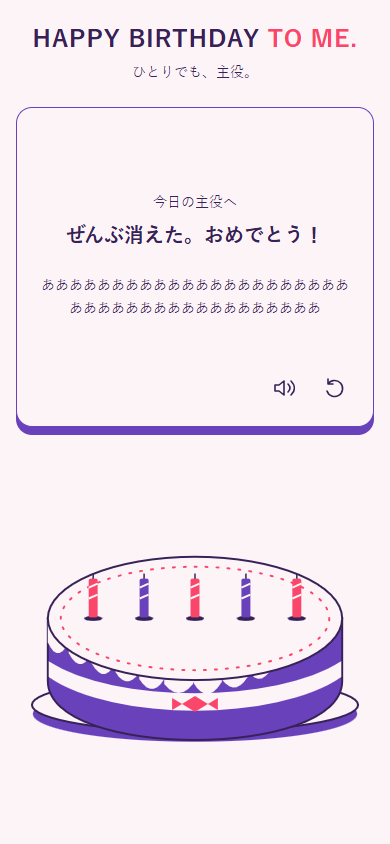
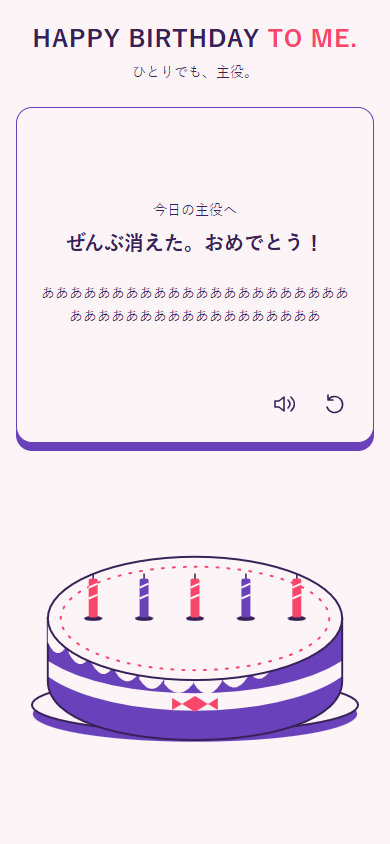
Give the start button card clearance

Changed region(s): [[0.0923, 0.2156, 0.8923, 0.4005], [0.0308, 0.4313, 0.9846, 0.5545]]

diff --git a/dist/style.css b/dist/style.css
@@ -32,7 +32,7 @@ button:focus-visible, input:focus-visible { outline: 3px solid var(--color-accen
 .brand h1 span { color: var(--color-emphasis); }
 .brand p { margin: var(--space-1) 0 0; font-size: var(--font-small); line-height: 1.5; }
 
-.message-card { position: relative; height: 320px; padding: var(--space-3); border: 1px solid var(--color-accent); border-radius: var(--radius); background: var(--color-background); box-shadow: 0 var(--space-1) 0 var(--color-accent); }
+.message-card { position: relative; height: 336px; padding: var(--space-3); border: 1px solid var(--color-accent); border-radius: var(--radius); background: var(--color-background); box-shadow: 0 var(--space-1) 0 var(--color-accent); }
 #setup { height: 100%; display: flex; flex-direction: column; gap: var(--space-1); }
 .card-heading { text-align: center; }
 .card-heading p { margin: 0 0 var(--space-1); font-size: var(--font-small); line-height: 1.5; }
@@ -57,7 +57,7 @@ input { width: 100%; height: 44px; min-width: 0; padding: var(--space-1) var(--s
 .status { position: absolute; width: 1px; height: 1px; overflow: hidden; clip-path: inset(50%); margin: 0; }
 .status.notice { right: var(--space-3); bottom: calc(var(--space-3) + 44px); left: var(--space-3); width: auto; height: auto; clip-path: none; margin: 0; font-size: var(--font-small); line-height: 1.6; text-align: center; }
 
-.stage { position: relative; height: 360px; margin-top: var(--space-2); }
+.stage { position: relative; height: 360px; margin-top: 0; }
 .blow-cue { position: absolute; z-index: 1; inset: 0 0 auto; display: flex; height: 64px; align-items: center; justify-content: center; gap: var(--space-4); pointer-events: none; }
 .bubble { --energy: 0; position: relative; padding: var(--space-1) var(--space-2); border: 2px solid var(--color-text); border-radius: var(--radius); background: var(--color-background); box-shadow: 3px 3px 0 var(--color-accent); color: var(--color-text); font-size: var(--font-medium); font-weight: 900; transform: rotate(-8deg) scale(calc(1 + var(--energy) * .4)); transition: transform 90ms linear; }
 .bubble::after { position: absolute; bottom: -7px; left: var(--space-2); width: 12px; height: 12px; content: ""; border-right: 2px solid var(--color-text); border-bottom: 2px solid var(--color-text); background: var(--color-background); transform: rotate(30deg); }
